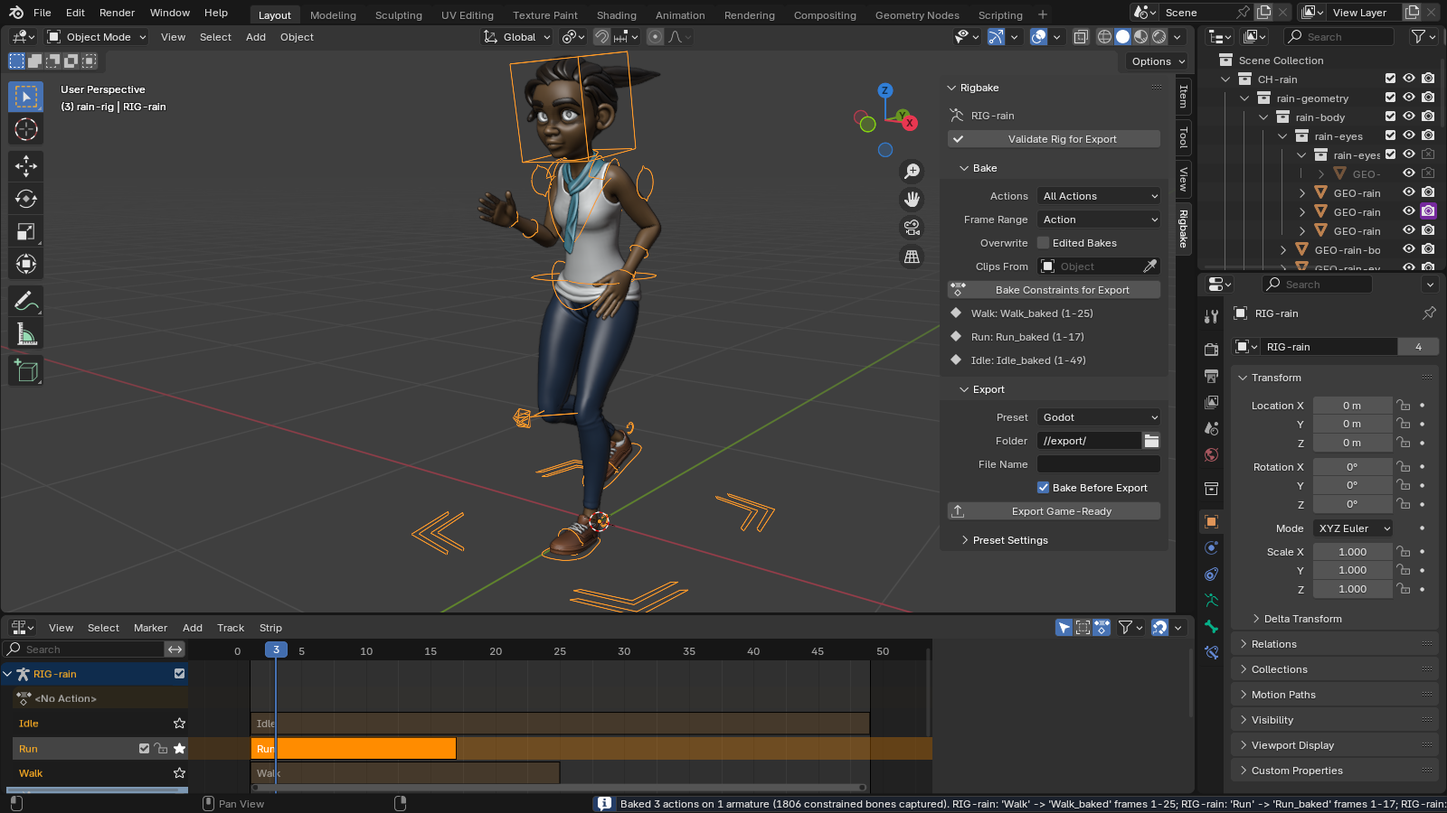
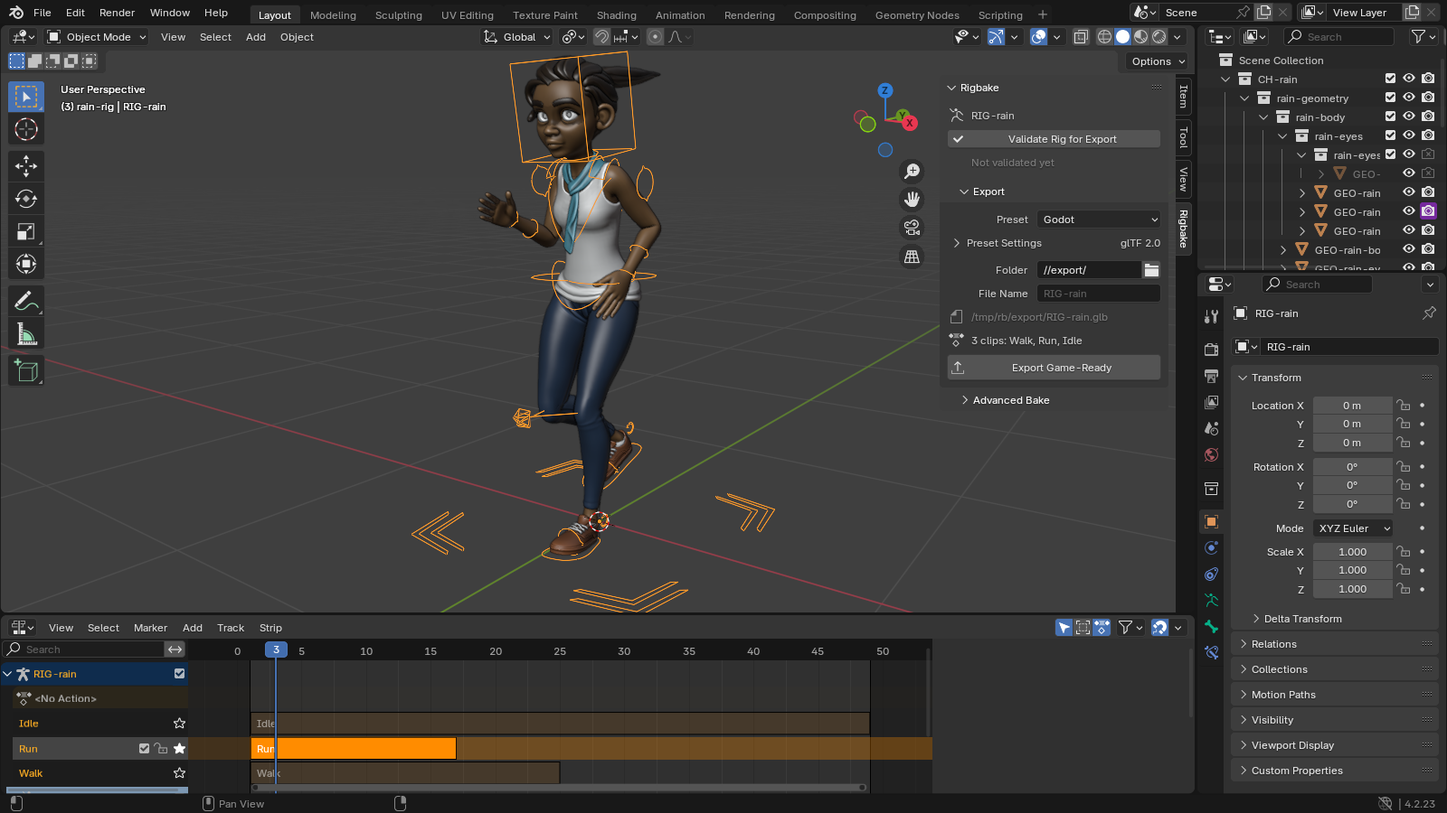
Rigbake page for 1.3.0 (critique round 1): problem, price and the video on the first screen; plain availability text with a 'tell me when it's available' mail link instead of a grey pill; caption-free video poster; measurements moved to 'How we tested'; diagrams padded, hidden on phones with a text 

diff --git a/rigbake/index.html b/rigbake/index.html
@@ -24,10 +24,21 @@
   th, td { text-align: left; padding: 8px 10px; border-bottom: 1px solid #E6DED3; vertical-align: top; }
   th { color: var(--muted); font-weight: 600; }
   a { color: var(--ochre); }
-  .cta { display: inline-block; background: var(--ochre); color: #fff; padding: 10px 18px; border-radius: 8px; text-decoration: none; font-weight: 600; margin-right: 12px; }
+  .buy { margin: 18px 0 8px; }
+  .buy p { margin: 0 0 10px; }
+  .buy .price { font-size: 19px; }
   figure { margin: 28px 0; }
-  figure img { width: 100%; height: auto; border: 1px solid #E6DED3; border-radius: 10px; background: #FAF7F2; }
+  figure img, figure video { width: 100%; height: auto; border: 1px solid #E6DED3; border-radius: 10px; background: #FAF7F2; display: block; }
+  figure video { background: #2B2118; }
   figcaption { font-size: 14px; color: var(--muted); margin-top: 8px; }
+  .narrow-only { display: none; }
+  @media (max-width: 600px) {
+    h1 { margin-top: 28px; }
+    .wide-only { display: none; }
+    .narrow-only { display: block; }
+    table { font-size: 14px; }
+    th, td { padding: 6px; }
+  }
   footer { margin-top: 72px; padding-bottom: 48px; color: var(--muted); font-size: 15px; }
   footer a { margin-right: 18px; }
 </style>
@@ -39,13 +50,21 @@
 </header>
 <main>
   <h1>Rigbake for Blender</h1>
-  <p class="sub">One clean, correctly named animation clip per action, exported with ready settings for Godot, Unity, and Unreal. Your original actions are never touched.</p>
+  <p class="sub">Control rig or NLA clips? Blender's default export can come out empty or with wrong, duplicated takes. Rigbake exports one clean, correctly named clip per action, with ready settings for Godot, Unity, and Unreal. Your original actions are never touched.</p>
 
-  <p class="price"><strong>$19, one-time, source included</strong> (GPL-3.0-or-later).</p>
-  <p>
-    <span class="cta" style="background:#6B5E52">Direct purchase and Superhive listing: coming shortly</span>
-    <a href="#documentation">Documentation</a>
-  </p>
+  <div class="buy">
+    <p class="price"><strong>$19, one-time, source included</strong> (GPL-3.0-or-later).</p>
+    <p>Not on sale yet: direct purchase and the Superhive listing open soon. <a href="mailto:support@ochrestack.com?subject=Tell%20me%20when%20Rigbake%20is%20available">Tell me when it's available</a>.</p>
+    <p><a href="#documentation">Documentation and install steps</a></p>
+  </div>
+
+  <figure>
+    <video controls playsinline preload="metadata" poster="video/poster.png">
+      <source src="video/rigbake-demo-1080p.mp4" type="video/mp4">
+    </video>
+    <figcaption>59 seconds, captions, no narration. Blender Studio's Ellie (CC BY 4.0) with Idle, Walk, and Run on the NLA. Plain FBX export: 24 takes for 3 clips, the broken Idle stepping and crossing its feet in Godot. Rigbake: 3 takes, each correct.</figcaption>
+  </figure>
+
 
   <div class="box warn">
     <strong>Where it matters.</strong> If your character is driven by a separate control rig, or you keep several clips on the NLA, Blender's default glTF and FBX exports can come out with no animation at all, or with wrong, duplicated FBX takes that are off by more than half a meter. We measured both cases on Blender 4.2, 4.5, and 5.0. Rigbake exports both correctly.
@@ -55,16 +74,15 @@
     <strong>Where it is a convenience.</strong> For a single rig with IK and drivers, Blender's own exporters already bake constraints and get it right. There, what you are buying is the rig validator, repeatable per-engine presets saved in your .blend file, and editable baked actions. We say this on the box because you should know it before you pay.
   </div>
 
-  <figure>
-    <img src="workflow.svg" alt="Diagram: your rig with constraints and drivers, baked from the rest pose into one action per clip, exported as one clean clip per action for Godot, Unity, or Unreal" width="880" height="300">
-    <figcaption>How Rigbake works: validate, bake from the rest pose, export one clip per action.</figcaption>
+  <figure class="wide-only">
+    <img src="workflow.svg" alt="Diagram: your rig with constraints and drivers is validated, baked for you from the rest pose into one action per clip, and exported as one clean clip per action for Godot, Unity, or Unreal" width="880" height="300">
+    <figcaption>How Rigbake works: validate, then export. The export bakes each clip from the rest pose for you.</figcaption>
   </figure>
+  <ol class="narrow-only">
+    <li><strong>Validate Rig for Export</strong> checks the rig. Your rig and its actions are not changed.</li>
+    <li><strong>Export Game-Ready</strong> bakes each clip from the rest pose into plain keys and writes one clean clip per action, as glTF (Godot) or FBX (Unity, Unreal).</li>
+  </ol>
 
-  <h2 id="watch">Watch it, 59 seconds</h2>
-  <video controls playsinline preload="metadata" poster="video/still-1-godot-same-frame-plain-vs-rigbake.png" style="width:100%;border-radius:10px;border:1px solid #E6DED3;background:#2B2118">
-    <source src="video/rigbake-demo-1080p.mp4" type="video/mp4">
-  </video>
-  <p style="font-size:14px;color:#6B5E52;margin-top:8px">Blender Studio's Ellie (CC-BY 4.0) with Idle, Walk, and Run on the NLA. Plain FBX export: 24 takes for 3 clips, the broken Idle stepping and crossing its feet in Godot. Rigbake: 3 takes, each correct. Captions, no narration.</p>
   <figure>
     <img src="video/rigbake-ellie-plain-vs-rigbake.gif" alt="Animated: in Godot, the plain export's Idle take walks and crosses its feet while Rigbake's Idle stands still, both paused on the same frame" width="960" height="540" loading="lazy">
     <figcaption>Same frame, same character: plain export on the left, Rigbake on the right.</figcaption>
@@ -72,49 +90,35 @@
 
   <h2>What it does</h2>
   <ul>
-    <li><strong>Bake Constraints for Export.</strong> Bakes every bone constraint and driver into plain keyframes on a new action per clip, from the rest pose, so the result never depends on where the playhead was. Originals untouched. Hand-edited bakes are kept, not overwritten.</li>
-    <li><strong>Export Game-Ready.</strong> Runs the baked result through Blender's bundled glTF and FBX exporters with explicit, documented settings. Presets for Godot (glTF), Unity (FBX), and Unreal (FBX), editable in the panel and saved with your file. Control rigs: Rigbake detects the driving armature (or you pick it), and with the default settings every one of its actions becomes its own clip.</li>
-    <li><strong>Validate Rig for Export.</strong> Lists every constraint and driver per bone (bones that just follow a control rig are summed up in one line), unapplied or non-uniform scale, vertices with more than four weights, vertex-group problems, object-level constraints, and shape keys that a preset would drop, each with a one-line fix.</li>
+    <li><strong>Export Game-Ready.</strong> Bakes every bone constraint and driver into plain keyframes, one new action per clip, from the rest pose, so the result never depends on where the playhead was, and exports through Blender's bundled glTF and FBX exporters with explicit, documented settings. Presets for Godot (glTF), Unity (FBX), and Unreal (FBX), editable in the panel and saved with your file. The panel shows the file and the clips before you click, and keeps the result after: each clip with its frame range, and every warning.</li>
+    <li><strong>One clip per action.</strong> With the default settings, the active action and every action on the NLA, stashed ones included, each become their own clip, named after the action. Control rigs: Rigbake detects the driving armature (or you pick it) and exports its actions the same way. An action that is neither active nor on the NLA is not exported; the panel names it, with a one-click Add to NLA.</li>
+    <li><strong>Validate Rig for Export.</strong> Lists what will break on the way to the engine, most damaging first, each with a one-line fix: shape keys a preset would drop, motion keyed on the armature object, unapplied or non-uniform scale, vertices with more than four weights, vertex-group problems. Constraints and drivers that the export bakes are listed as notes, not issues. Repeats are summed up in one line; the full report is one click away.</li>
+    <li><strong>Your actions and your edits are kept.</strong> Originals are never modified. If you clean up a baked action by hand, the next export keeps it and marks it "hand-edited, kept".</li>
   </ul>
 
-  <h2>Measured, not promised</h2>
-  <figure>
-    <img src="before-after.svg" alt="Figure: control rig case, plain export 0 animations versus Rigbake one per action; NLA clips case, plain FBX 4 takes for 2 clips with two wrong versus Rigbake 2 exact takes" width="880" height="420">
-    <figcaption>The two cases where plain export goes wrong, measured on Blender 4.2, 4.5, and 5.0.</figcaption>
-  </figure>
-
-  <table>
-    <tr><th>Scenario</th><th>Plain Blender export</th><th>Rigbake</th></tr>
-    <tr><td>Deform rig driven by a separate control rig, exported alone</td><td>0 animations (glTF and FBX)</td><td>One clip per action, bone error 0</td></tr>
-    <tr><td>Two clips stashed on the NLA with IK, plain FBX</td><td>4 takes for 2 clips, two of them wrong by 0.60 m / 0.82 rad</td><td>2 takes, both exact</td></tr>
-    <tr><td>Single rig with IK, Copy Rotation, and a driver</td><td>Correct already</td><td>Correct; validator and presets are the value</td></tr>
-  </table>
-  <p>Round-trip tolerance is 1 mm and 0.001 rad; measured error on the cases above, and on the customer gate's three rigs, is below 1e-5 m in a Blender re-import. Every number comes from the test suite in the repository, which runs on Blender 4.2, 4.5, and 5.0.</p>
-  <p><strong>How exact in Godot.</strong> The exported files are exact: re-imported into Blender, every bone is within 1e-5 m. Godot's default import re-samples each clip at its Animation &gt; FPS setting and its import Optimizer can thin keys: the customer gate measured up to about 3 cm on fast motion, and our every-frame check of the same rigs up to 13 cm. With Animation &gt; FPS set to the Blender frame rate and the AnimationPlayer's Optimizer turned off, every bone matched Blender within 0.0002 m in our check. The <a href="quick-start.html#godot">quick start</a> shows both settings.</p>
-
   <h2>In Blender, for real</h2>
-  <p>Every image below is a capture from a real Blender 4.2 LTS window with Rigbake 1.2.0 installed, or a Godot 4.7 render of its files: not a mockup. The character is Rain, the Blender Studio's free production rig (2166 bones, 2788 bone constraints), with an Idle, a Walk and a Run clip on the NLA and her legs in IK.</p>
+  <p>Every image below is a capture from a real Blender 4.2 LTS window with Rigbake 1.3.0 installed, or a Godot 4.7 render of its files: not a mockup. The character is Rain, the Blender Studio's free production rig (2166 bones, 2788 bone constraints), with an Idle, a Walk and a Run clip on the NLA and her legs in IK.</p>
   <figure>
-    <img src="img/character-01-blender-rain-clips.png" alt="Blender 4.2 with the character Rain mid-run in the viewport and the Rigbake sidebar tab open: her three baked clips Walk, Run and Idle listed under the Bake button, the Godot preset selected, and the NLA editor below showing her Idle, Run and Walk tracks" width="1600" height="900" loading="lazy">
-    <figcaption>Rain's clip library on the NLA, baked in one click with the default settings: Walk, Run and Idle each become their own baked action, listed in the Rigbake tab. Her original actions, constraints and NLA tracks are left as they were.</figcaption>
+    <img src="img/character-01-blender-rain-clips.png" alt="Blender 4.2 with the character Rain mid-run in the viewport and the Rigbake sidebar tab open: Validate Rig for Export, the Godot preset, the file it will write and '3 clips: Walk, Run, Idle' above the Export Game-Ready button; the NLA editor below shows her Idle, Run and Walk tracks" width="1600" height="900" loading="lazy">
+    <figcaption>Rain's clip library on the NLA. With the default settings, the Rigbake tab says what the export will write before you click: the file, and her three clips, Walk, Run and Idle.</figcaption>
   </figure>
   <figure>
-    <img src="img/character-02-validate-popup.png" alt="The Validate Rig for Export popup next to Rain in the viewport, listing constrained bones of her rig with a one-line fix each and how many more findings there are; the full report in a text block below" width="1600" height="900" loading="lazy">
-    <figcaption>Validate Rig for Export on a production rig: every constrained bone, weight, vertex-group and shape-key issue, each with its fix. The popup shows the first findings; the text block has all of them.</figcaption>
+    <img src="img/character-02-validate-popup.png" alt="The Validate Rig for Export dialog next to Rain, titled '6 issues, 1 note in RIG-rain': meshes with more than four bone weights per vertex, meshes whose modifiers stay unapplied to keep shape keys, vertex groups with no weights or no matching bone, deform bones without weights, each with its fix, then one note for her 1,806 constrained bones, baked on export" width="1600" height="900" loading="lazy">
+    <figcaption>Validate Rig for Export on a production rig: six issues, each summed up across her meshes with its fix, then one note for the 1,806 constrained bones the export bakes. The full report names every bone and vertex group.</figcaption>
   </figure>
   <figure>
-    <img src="img/character-03-export-summary.png" alt="Rain in the viewport with Blender's Info editor below showing Rigbake's summaries: three actions baked, and RIG-rain exported with three animations, Walk, Run and Idle, as glTF with the Godot preset" width="1600" height="900" loading="lazy">
-    <figcaption>Export Game-Ready reports what it wrote: the file, the preset, and each animation with its frame range. Warnings, such as shape keys a preset drops, are spelled out mesh by mesh.</figcaption>
+    <img src="img/character-03-export-summary.png" alt="Rain in the viewport and the Rigbake tab after Export Game-Ready with the default settings: the Last Export box names RIG-rain.glb, lists Walk 1-25, Run 1-17 and Idle 1-49, and notes the validator's issues and that her modifiers were left unapplied to keep her shape keys" width="1600" height="900" loading="lazy">
+    <figcaption>After Export Game-Ready with the default settings, the Last Export box keeps the file, each clip with its frame range, and what to check: the validator's issues, and that her modifiers were left unapplied so her shape keys are kept (Apply Modifiers: Auto).</figcaption>
   </figure>
   <figure>
     <img src="img/character-04-godot-side-by-side.png" alt="Godot 4.7, side by side at the same frame: Blender's default FBX export of Rain with 23 takes, Idle, Run and Walk each listed twice, playing Idle with her legs caught mid-stride from the Run clip; Rigbake's export with exactly Idle, Run and Walk, playing Idle and standing as in Blender" width="1600" height="900" loading="lazy">
-    <figcaption>The same rig in Godot 4.7, same frame. Left, File &gt; Export &gt; FBX with Blender's defaults: 23 takes for 3 clips, and in Idle her legs keep running from the Run clip (0.33 m off). Right, Rigbake's Godot preset: one take per clip, named after the action, posed as in Blender. Both sides wear the same materials, so only the animation differs.</figcaption>
+    <figcaption>The same rig in Godot 4.7, same frame. Left, File &gt; Export &gt; FBX with Blender's defaults: 23 takes for 3 clips, and in Idle her legs keep running from the Run clip (0.33 m off). Right, Rigbake's Godot preset with Apply Modifiers set to Always, which her clothing masks need in an engine: one take per clip, named after the action, posed as in Blender. Both sides wear the same materials, so only the animation differs.</figcaption>
   </figure>
-  <p style="font-size:14px;color:var(--muted)">Character: Rain Rig (CC) Blender Foundation | studio.blender.org, used under <a href="https://creativecommons.org/licenses/by/4.0/">CC BY 4.0</a>. We added the animation clips and simplified two eye materials for the game-engine export. Rain is not included with Rigbake. Rain has no separate control rig; the control-rig case is shown in the table above.</p>
+  <p style="font-size:14px;color:var(--muted)">Character: Rain Rig (CC) Blender Foundation | studio.blender.org, used under <a href="https://creativecommons.org/licenses/by/4.0/">CC BY 4.0</a>. We added the animation clips and simplified two eye materials for the game-engine export. Rain is not included with Rigbake. Rain has no separate control rig; the control-rig case is in "How we tested" below.</p>
 
   <h2>Details</h2>
   <ul>
-    <li>Price: $19, one-time, source included. Direct purchase and the Superhive listing are coming shortly.</li>
+    <li>Price: $19, one-time, source included. Not on sale yet; <a href="mailto:support@ochrestack.com?subject=Tell%20me%20when%20Rigbake%20is%20available">ask to be told when it is</a>.</li>
     <li>Blender 4.2 or later, installed as an extension from a zip. Verified in a real Blender 4.2 LTS window and in Godot 4.7. The Unity preset's FBX was checked through Godot's FBX importer. The Unreal preset has not been checked in Unreal Engine. Neither has been opened in Unity or Unreal.</li>
     <li>GPL-3.0-or-later. Full source code included with your purchase.</li>
     <li>No telemetry, no analytics, no network calls of any kind.</li>
@@ -125,7 +129,7 @@
   <p>The full manual (<code>README.md</code>) and a one-page quick start ship inside the download. The quick start is also online: <a href="quick-start.html">Rigbake quick start</a>.</p>
   <h3>Install</h3>
   <ol>
-    <li>Download <code>rigbake-1.2.0.zip</code>. Do not unzip it.</li>
+    <li>Download <code>rigbake-1.3.0.zip</code>. Do not unzip it.</li>
     <li>In Blender 4.2 or later, open <strong>Edit &gt; Preferences &gt; Get Extensions</strong>.</li>
     <li>Open the drop-down menu (<strong>&#8964;</strong>) at the top right, choose <strong>Install from Disk...</strong> and pick the zip.</li>
     <li>Press <strong>N</strong> in the 3D Viewport and open the <strong>Rigbake</strong> tab.</li>
@@ -138,10 +142,26 @@
 
   <h2>Known limits</h2>
   <ul>
-    <li>Only bone transforms are baked. Motion keyed on the armature object itself is reported by the validator, not baked.</li>
-    <li>Shape keys, custom properties, and B-Bone properties are not baked; keys are written on whole frames.</li>
+    <li>Only bone motion is baked. Shape keys and their animation are exported as they are (Godot preset), or dropped with a warning (FBX presets, when the mesh has other modifiers).</li>
+    <li>Motion keyed on the armature object itself is not exported; the validator and the export summary warn about it. Put it on a root bone.</li>
+    <li>The default exports the active action and every action on the NLA. Other actions of the rig are named in the panel, not exported, until you add them to the NLA.</li>
+    <li>Keys are baked on whole frames. One control rig per deform rig. One file per export.</li>
     <li>Blender 4.5's own FBX importer misreads multi-take files; exports from Rigbake are correct, but re-importing them into 4.5 for checking is not reliable. Use 4.2 or 5.0 to verify, or your engine.</li>
   </ul>
+
+  <h2 id="tested">How we tested</h2>
+  <figure class="wide-only">
+    <img src="before-after.svg" alt="Figure: control rig case, plain export 0 animations versus Rigbake one per action; NLA clips case, plain FBX 4 takes for 2 clips with two wrong versus Rigbake 2 exact takes" width="880" height="440">
+    <figcaption>The two cases where plain export goes wrong, measured on Blender 4.2, 4.5, and 5.0.</figcaption>
+  </figure>
+  <table>
+    <tr><th>Scenario</th><th>Plain Blender export</th><th>Rigbake</th></tr>
+    <tr><td>Deform rig driven by a separate control rig, exported alone</td><td>0 animations (glTF and FBX)</td><td>One clip per action, bone error 0</td></tr>
+    <tr><td>Two clips stashed on the NLA with IK, plain FBX</td><td>4 takes for 2 clips, two of them wrong by 0.60 m / 0.82 rad</td><td>2 takes, both exact</td></tr>
+    <tr><td>Single rig with IK, Copy Rotation, and a driver</td><td>Correct already</td><td>Correct; validator and presets are the value</td></tr>
+  </table>
+  <p>We build each rig in code, export it with Blender's defaults and with Rigbake, re-import the file, and compare every deform bone with the live rig. Round-trip tolerance is 1 mm and 0.001 rad; the measured error on the cases above, and on three more buyer-style rigs, is below 1e-5 m in a Blender re-import. Every number comes from our automated test suite, which runs on Blender 4.2, 4.5, and 5.0.</p>
+  <p><strong>How exact in Godot.</strong> The exported files are exact. Godot's default import re-samples each clip at its Animation &gt; FPS setting, and its import Optimizer can thin keys: on fast motion our every-frame check measured up to 13 cm. With Animation &gt; FPS set to the Blender frame rate and the AnimationPlayer's Optimizer turned off, every bone matched Blender within 0.0002 m in our check. The <a href="quick-start.html#godot">quick start</a> shows both settings.</p>
 </main>
 <footer>
   <a href="../privacy.html">Privacy</a>

diff --git a/rigbake/quick-start.html b/rigbake/quick-start.html
@@ -34,7 +34,7 @@
 
   <h2 id="install">Install (Blender 4.2 or later)</h2>
   <ol>
-    <li>Download <code>rigbake-1.2.0.zip</code>. Do not unzip it.</li>
+    <li>Download <code>rigbake-1.3.0.zip</code>. Do not unzip it.</li>
     <li>In Blender, open <strong>Edit &gt; Preferences &gt; Get Extensions</strong>.
       <ul>
         <li>Blender may first ask about internet access, with <strong>Continue Offline</strong> and <strong>Allow Online Access</strong>. Rigbake needs no internet, so <strong>Continue Offline is fine</strong>.</li>
@@ -48,21 +48,21 @@
 
   <h2 id="first-export">First export</h2>
   <ol>
-    <li>In Object Mode, select the armature that deforms your mesh. With a control rig, select the deform (game) rig; Rigbake finds the control rig and shows "Clips from 'CTRL' (detected)".</li>
-    <li>Click <strong>Validate Rig for Export</strong> and fix what matters for your engine. The full list is in the Text Editor, text block <em>Rigbake Validation.txt</em>.</li>
-    <li>Leave <strong>Actions</strong> on <strong>All Actions</strong> (the default). Every action becomes its own clip: the active action and every action on the NLA, including stashed ones, or every action of the control rig.</li>
-    <li>Pick the <strong>Preset</strong> (Godot, Unity or Unreal) and the <strong>Folder</strong>, then click <strong>Export Game-Ready</strong>.</li>
-    <li>Read the summary in the status bar. It names the file and every clip, for example "Exported DEF with 3 animations ['Jump' (1-30), 'Walk' (1-24), 'Run' (1-16)]". Long summaries are cut off at the window edge; an Info editor shows them in full.</li>
+    <li>In Object Mode, select the armature that deforms your mesh. With a control rig, select the deform (game) rig; Rigbake finds the control rig.</li>
+    <li>Click <strong>Validate Rig for Export</strong>. A dialog lists the issues first, then notes (things Rigbake handles for you, such as constraints it bakes). It stays open until you close it; <strong>Open Full Report</strong> opens the whole report in a Text Editor window. The panel keeps the counts, with a <strong>Report</strong> button.</li>
+    <li>Pick the <strong>Preset</strong> (Godot, Unity or Unreal) and the <strong>Folder</strong>. Below the File Name, the panel shows the file it will write and the clips it will export, for example "2 clips: Walk, Run (from CTRL)". If it says "Save the .blend file first", save, or pick an absolute folder.</li>
+    <li>Click <strong>Export Game-Ready</strong>. The status bar says, for example, "Exported 2 clips to DEF.glb." The <strong>Last Export</strong> box below the button lists every clip with its frame range and every warning, and its folder button opens the export folder.</li>
   </ol>
-  <p><em>Active Action</em> exports only the active action. If the armature has no active action but has clips on the NLA, Rigbake refuses and asks you to choose All Actions, instead of exporting the NLA mix as one clip.</p>
-  <p>Each clip is baked from the rest pose. If the summary says a clip "does not key" some bones that are posed in the viewport, the file shows those bones at rest, while the viewport still shows them where another clip or your hands left them.</p>
+  <p>Every action that is the armature's active action or sits on its NLA (stashed ones included) becomes its own clip, or every such action of the control rig. An action that is neither, for example one kept only by its fake user, is not exported: the panel names it under the Export button, and <strong>Add to NLA</strong> stashes it so the next export includes it.</p>
+  <p>Export Game-Ready bakes for you. <strong>Advanced Bake</strong> (closed by default) has the bake settings: <em>Actions</em>, <em>Frame Range</em>, <em>Clips From</em>, <em>Keep Hand-Edited Bakes</em> and <em>Bake Before Export</em>, and a button to bake without exporting.</p>
+  <p>Each clip is baked from the rest pose. If a warning says a clip "does not key" some bones that are posed in the viewport, the file shows those bones at rest, while the viewport still shows them where another clip or your hands left them.</p>
 
   <h2 id="godot">Importing into Godot</h2>
   <p>The exported files are exact: re-imported into Blender, every bone is within 1e-5 m of the live rig. Two Godot import settings decide how exactly Godot plays them:</p>
   <div class="box">
     <ul>
       <li><strong>Animation &gt; FPS</strong> (Import dock, default 30): set it to your Blender frame rate (Scene Properties &gt; Format &gt; Frame Rate). Godot re-samples every clip at this rate.</li>
-      <li><strong>Optimizer</strong> of the AnimationPlayer (Import dock &gt; Advanced... &gt; select the AnimationPlayer node): on by default. It drops keys it judges redundant, which on fast motion put bones up to 13 cm off in our check of the customer gate's rigs. Turn it off where you need the exact motion.</li>
+      <li><strong>Optimizer</strong> of the AnimationPlayer (Import dock &gt; Advanced... &gt; select the AnimationPlayer node): on by default. It drops keys it judges redundant, which on fast motion put bones up to 13 cm off on our test rigs. Turn it off where you need the exact motion.</li>
     </ul>
   </div>
   <p>Click <strong>Reimport</strong> after changing them. With both set, every bone matched Blender within 0.0002 m in our check.</p>
@@ -70,16 +70,16 @@
   <h2 id="limits">Limits</h2>
   <ul>
     <li>Checked in Godot 4.7 and in a real Blender 4.2 LTS window. The Unity preset's FBX was checked through Godot's FBX importer. The Unreal preset has not been checked in Unreal Engine. Neither has been opened in Unity or Unreal.</li>
-    <li>Bone animation only: motion keyed on the armature object, shape keys, custom properties and B-Bone properties are not baked. Keys are baked on whole frames.</li>
+    <li>Only bone motion is baked. Shape keys and their animation are exported as they are (Godot preset), or dropped with a warning (FBX presets, when the mesh has other modifiers). Custom properties and B-Bone properties are not baked. Keys are baked on whole frames.</li>
+    <li>Motion keyed on the armature object itself is not exported; the validator and the export warn about it.</li>
     <li>One control rig per deform rig. One file per export.</li>
-    <li>The FBX presets drop the shape keys of a mesh that has a modifier other than Armature; Rigbake warns you.</li>
   </ul>
 
   <h2 id="privacy">Privacy</h2>
   <p>Rigbake makes no network connections and sends nothing anywhere.</p>
 
   <h2 id="support">Support</h2>
-  <p>Email <a href="mailto:support@ochrestack.com">support@ochrestack.com</a> with your Blender version, the preset, the summary message and, if you can, a .blend file that shows the problem.</p>
+  <p>Email <a href="mailto:support@ochrestack.com">support@ochrestack.com</a> with your Blender version, the preset, the warnings from the Last Export box and, if you can, a .blend file that shows the problem.</p>
 </main>
 <footer>
   <a href="../privacy.html">Privacy</a>
